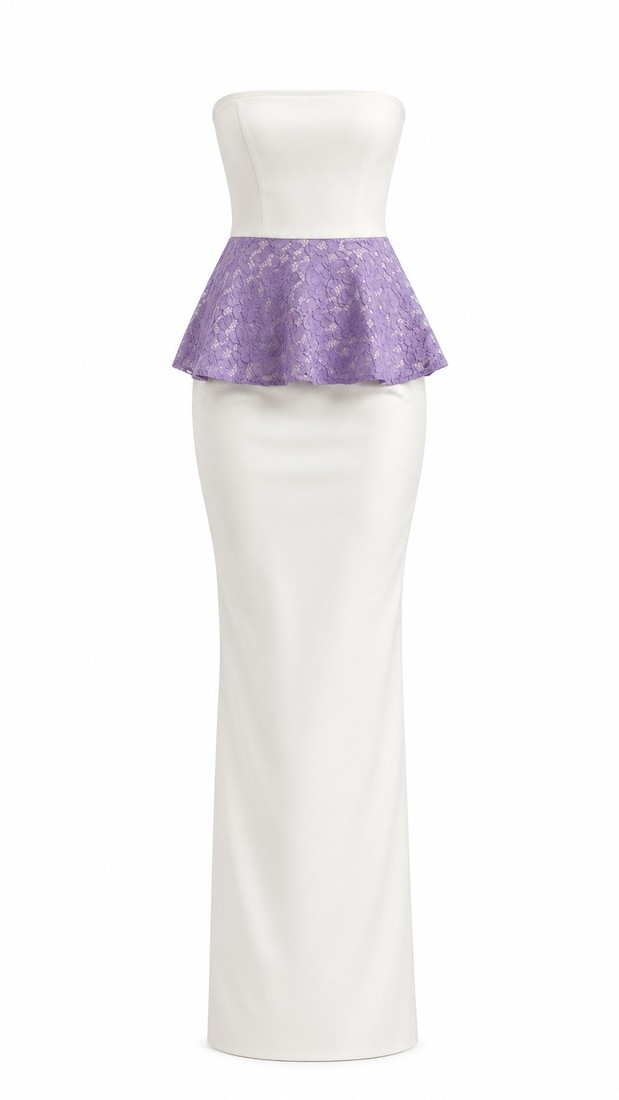
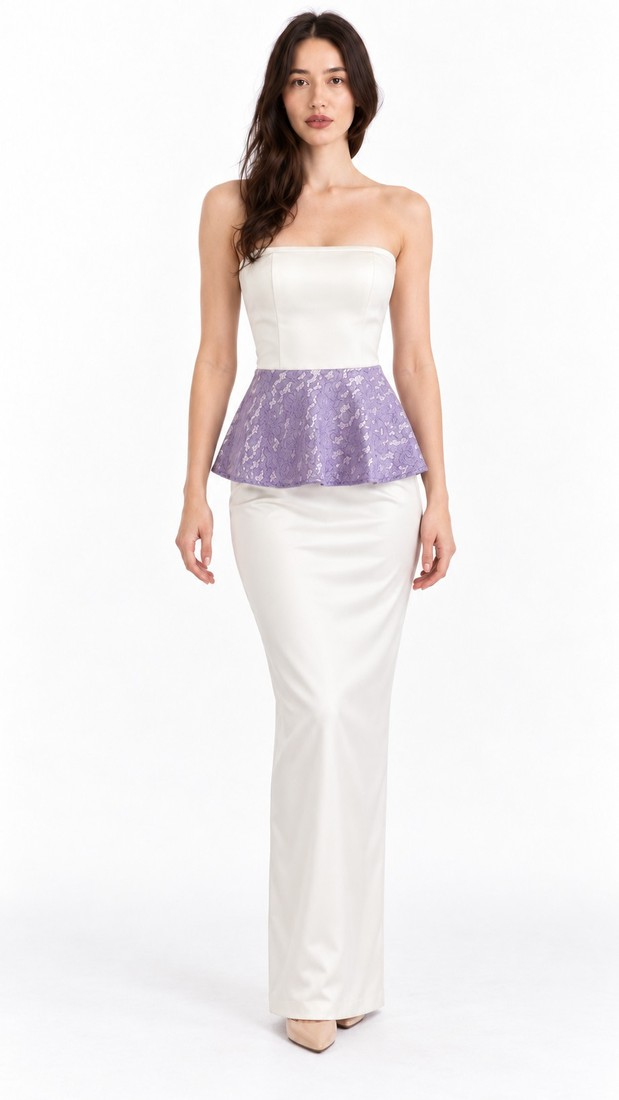
Обновление каталога 04.10.2026 23:23

Changed region(s): [[0.2763, 0.0, 0.7367, 0.9891], [0.5832, 0.8964, 0.6139, 0.9273]]

diff --git a/docs/index.html b/docs/index.html
@@ -270,7 +270,7 @@
   // Telegram-ник менеджера, без @. Заменить перед публикацией.
   const MANAGER = "Daniil_Artemyev";
 </script>
-<script src="products.js?v=913bbe0e"></script>
+<script src="products.js?v=79d7895e"></script>
 <script>
 (function () {
   const items = window.PRODUCTS || [];

diff --git a/docs/products.js b/docs/products.js
@@ -1153,7 +1153,8 @@ window.PRODUCTS = [
   "price": 12000,
   "old_price": null,
   "photos": [
-   "photos/SH-48-1.jpg?v=44e53457"
+   "photos/SH-48-1.jpg?v=a0b5537e",
+   "photos/SH-48-2.jpg?v=44e53457"
   ],
   "note": "Размер примерный",
   "variants": [
